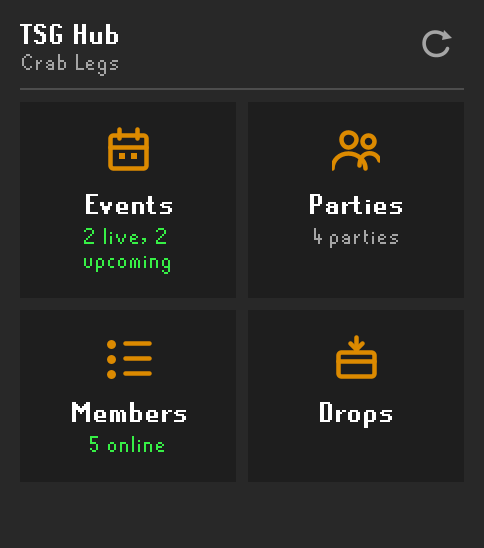
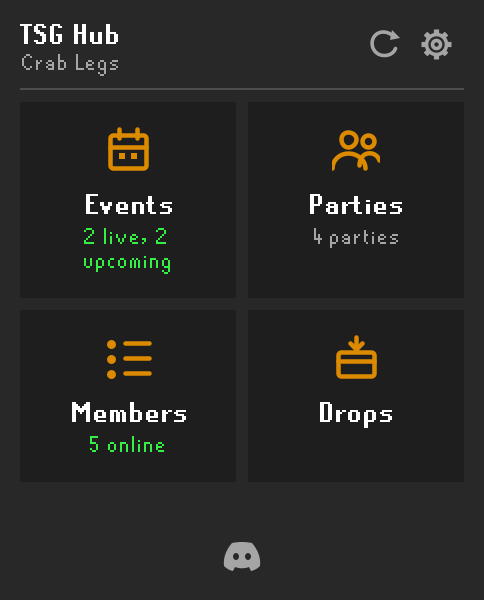
feat: add discord invite and settings

diff --git a/src/main/java/com/tsghub/TsgHubSidebarPanel.java b/src/main/java/com/tsghub/TsgHubSidebarPanel.java
@@ -57,6 +57,8 @@ final class TsgHubSidebarPanel extends PluginPanel
 	private final TsgHubUi.RefreshIcon refreshIcon = new TsgHubUi.RefreshIcon();
 	private final JButton refresh = TsgHubUi.iconButton(refreshIcon, "Refresh");
 	private final JButton organizer = TsgHubUi.iconButton(new TsgHubUi.OrganizerIcon(), "Admin tools");
+	private final JButton settings = TsgHubUi.iconButton(new TsgHubUi.CogIcon(), "Plugin settings");
+	private final JPanel footer = new JPanel(new FlowLayout(FlowLayout.CENTER, 0, 0));
 	private final TsgHubUi.StatusLine status = new TsgHubUi.StatusLine(TEXT_W);
 
 	private final CardLayout centerLayout = new CardLayout();
@@ -75,7 +77,6 @@ final class TsgHubSidebarPanel extends PluginPanel
 	private final JLabel joinError = TsgHubUi.label("", TsgHubUi.ERROR, FontManager.getRunescapeSmallFont());
 
 	private View view = View.LOGGED_OUT;
-	private String plainTitle = "TSG Hub";
 	private JsonArray events;
 	private JsonObject previewEvent;
 	private JsonObject boardEvent;
@@ -149,6 +150,7 @@ final class TsgHubSidebarPanel extends PluginPanel
 		center.add(buildBoard(), "board");
 		center.add(TsgHubUi.scroll(groupsPage), "groups");
 		add(center, BorderLayout.CENTER);
+		add(buildFooter(), BorderLayout.SOUTH);
 
 		codeField.setToolTipText("Team code from an admin");
 		codeField.putClientProperty("JTextField.placeholderText", "Team code, e.g. DRGN42");
@@ -225,8 +227,10 @@ final class TsgHubSidebarPanel extends PluginPanel
 		refreshSlot.setOpaque(false);
 		refreshSlot.setPreferredSize(refresh.getPreferredSize());
 		refreshSlot.add(refresh);
+		settings.addActionListener(e -> plugin.openSettings());
 		actions.add(organizer);
 		actions.add(refreshSlot);
+		actions.add(settings);
 		titleRow.add(actions, BorderLayout.EAST);
 
 		JPanel below = TsgHubUi.stack();
@@ -266,7 +270,6 @@ final class TsgHubSidebarPanel extends PluginPanel
 	void setOrganizerAccess(boolean allowed)
 	{
 		organizer.setVisible(allowed);
-		layoutHeader();
 	}
 
 	void setStatus(String message, TsgHubUi.Tone tone)
@@ -1273,25 +1276,30 @@ final class TsgHubSidebarPanel extends PluginPanel
 		dropsWanted = next == View.DROPS;
 		if (next != View.COMPETITION) openCompetitionId = null;
 		centerLayout.show(center, next == View.BOARD ? "board" : next == View.GROUPS ? "groups" : "page");
+		footer.setVisible(next == View.HOME);
 		back.setToolTipText(next == View.EVENTS || next == View.GROUPS || next == View.MEMBERS || next == View.DROPS ? "Home" : "Back to events");
-		layoutHeader();
+	}
+
+	private JPanel buildFooter()
+	{
+		JButton discord = TsgHubUi.iconButton(new TsgHubUi.DiscordIcon(), "Copy an invite to the clan Discord");
+		discord.addActionListener(e -> {
+			discord.setEnabled(false);
+			plugin.copyDiscordInvite(() -> discord.setEnabled(true));
+		});
+		footer.setOpaque(false);
+		footer.add(discord);
+		footer.setVisible(false);
+		return footer;
 	}
 
 	private void setHeader(String titleText, String subtitleText, boolean showBack, boolean showRefresh)
 	{
-		plainTitle = titleText;
 		title.setText(TsgHubUi.html(TsgHubUi.escape(titleText), 150));
 		subtitle.setText(subtitleText);
 		subtitle.setVisible(!subtitleText.isEmpty());
 		back.setVisible(showBack);
 		refresh.setVisible(showRefresh);
-		layoutHeader();
-	}
-
-	private void layoutHeader()
-	{
-		actions.setVisible(refresh.isVisible() || organizer.isVisible());
-		titleRow.setVisible(!plainTitle.isEmpty() || actions.isVisible());
 	}
 
 	private void renderEvents()

diff --git a/src/main/java/com/tsghub/TsgHubPlugin.java b/src/main/java/com/tsghub/TsgHubPlugin.java
@@ -29,6 +29,7 @@ import net.runelite.api.ChatMessageType;
 import net.runelite.api.Player;
 import net.runelite.api.WorldView;
 import net.runelite.api.GameState;
+import net.runelite.api.MenuAction;
 import net.runelite.api.clan.ClanChannel;
 import net.runelite.api.clan.ClanSettings;
 import net.runelite.api.clan.ClanMember;
@@ -54,12 +55,15 @@ import net.runelite.http.api.item.ItemPrice;
 import net.runelite.client.input.MouseManager;
 import net.runelite.client.config.ConfigManager;
 import net.runelite.client.events.ConfigChanged;
+import net.runelite.client.events.OverlayMenuClicked;
 import net.runelite.client.callback.ClientThread;
 import net.runelite.client.plugins.Plugin;
 import net.runelite.client.plugins.PluginDescriptor;
 import net.runelite.client.ui.ClientToolbar;
 import net.runelite.client.ui.NavigationButton;
+import net.runelite.client.ui.overlay.Overlay;
 import net.runelite.client.ui.overlay.OverlayManager;
+import net.runelite.client.ui.overlay.OverlayMenuEntry;
 import net.runelite.client.util.AsyncBufferedImage;
 import net.runelite.client.util.ImageUtil;
 import net.runelite.client.util.Text;
@@ -778,6 +782,33 @@ public class TsgHubPlugin extends Plugin
 				else memberStatus("Couldn't load the leaderboard. " + TsgHubUi.friendlyError(e), Tone.ERROR);
 			}
 			finally { sidebarBusy(false); }
+		});
+	}
+
+	void openSettings()
+	{
+		Overlay owner = new Overlay(this)
+		{
+			@Override public Dimension render(Graphics2D graphics) { return null; }
+		};
+		eventBus.post(new OverlayMenuClicked(new OverlayMenuEntry(MenuAction.RUNELITE_OVERLAY_CONFIG, "", ""), owner));
+	}
+
+	void copyDiscordInvite(Runnable done)
+	{
+		JsonObject body = new JsonObject();
+		body.addProperty("displayName", detectedPlayerName);
+		body.addProperty("clanName", detectedClanName);
+		addAccountHash(body);
+		executor.submit(() -> {
+			try
+			{
+				String url = api().request("POST", "/v1/discord/invite", null, body).get("url").getAsString();
+				SwingUtilities.invokeLater(() -> TsgHubUi.copyToClipboard(url));
+				memberStatus("Discord invite copied. Paste it in your browser to join.", Tone.SUCCESS);
+			}
+			catch (Exception e) { memberStatus(TsgHubUi.friendlyError(e), Tone.ERROR); }
+			finally { SwingUtilities.invokeLater(done); }
 		});
 	}
 

diff --git a/src/main/java/com/tsghub/TsgHubUi.java b/src/main/java/com/tsghub/TsgHubUi.java
@@ -17,6 +17,8 @@ import java.awt.Rectangle;
 import java.awt.RenderingHints;
 import java.awt.event.MouseAdapter;
 import java.awt.event.MouseEvent;
+import java.awt.geom.Area;
+import java.awt.geom.Ellipse2D;
 import java.awt.geom.Path2D;
 import java.net.ConnectException;
 import java.net.SocketTimeoutException;
@@ -805,6 +807,48 @@ final class TsgHubUi
 			g.drawLine(8, 1, 8, 5);
 			g.drawLine(6, 3, 8, 5);
 			g.drawLine(10, 3, 8, 5);
+		}
+	}
+
+	static final class CogIcon extends HoverIcon
+	{
+		CogIcon() { super(16); }
+		@Override void paint(Graphics2D g, Component c)
+		{
+			g.drawOval(3, 3, 10, 10);
+			g.drawOval(6, 6, 4, 4);
+			g.setStroke(new BasicStroke(2.6f, BasicStroke.CAP_BUTT, BasicStroke.JOIN_ROUND));
+			for (int i = 0; i < 8; i++)
+			{
+				double a = Math.PI / 4 * i;
+				g.draw(new java.awt.geom.Line2D.Double(8 + 5 * Math.cos(a), 8 + 5 * Math.sin(a), 8 + 7.5 * Math.cos(a), 8 + 7.5 * Math.sin(a)));
+			}
+		}
+	}
+
+	static final class DiscordIcon extends HoverIcon
+	{
+		private static final Color BLURPLE = new Color(88, 101, 242);
+
+		DiscordIcon() { super(20); }
+		@Override Color hoverColor() { return BLURPLE; }
+		@Override void paint(Graphics2D g, Component c)
+		{
+			Path2D body = new Path2D.Double();
+			body.moveTo(5, 3.5);
+			body.quadTo(10, 2.5, 15, 3.5);
+			body.curveTo(18, 7, 19.5, 11, 19, 15);
+			body.quadTo(17, 17, 14.5, 17.5);
+			body.lineTo(13.5, 15.5);
+			body.quadTo(10, 16.8, 6.5, 15.5);
+			body.lineTo(5.5, 17.5);
+			body.quadTo(3, 17, 1, 15);
+			body.curveTo(0.5, 11, 2, 7, 5, 3.5);
+			body.closePath();
+			Area face = new Area(body);
+			face.subtract(new Area(new Ellipse2D.Double(5.5, 8.5, 3, 3.5)));
+			face.subtract(new Area(new Ellipse2D.Double(11.5, 8.5, 3, 3.5)));
+			g.fill(face);
 		}
 	}
 

diff --git a/src/test/java/com/tsghub/ReadmeScreenshots.java b/src/test/java/com/tsghub/ReadmeScreenshots.java
@@ -76,7 +76,7 @@ public class ReadmeScreenshots
 		TsgHubSidebarPanel sidebar = new TsgHubSidebarPanel(plugin, new GroupMembersPanel(new GroupViewSettings() {}, null, null));
 
 		sidebar.showSharingOff();
-		shoot(sidebar, SIDEBAR_W, 210, "sharing");
+		shoot(sidebar, SIDEBAR_W, 220, "sharing");
 
 		JsonArray events = data.getAsJsonObject("eventList").getAsJsonArray("events");
 		for (int i = 0; i < events.size(); i++)
@@ -96,7 +96,7 @@ public class ReadmeScreenshots
 		}
 		sidebar.setDrops(drops);
 		sidebar.showHome();
-		shoot(sidebar, SIDEBAR_W, 274, "home");
+		shoot(sidebar, SIDEBAR_W, 300, "home");
 		sidebar.showEventList();
 		BufferedImage eventList = shoot(sidebar, SIDEBAR_W, 480, "events");
 
